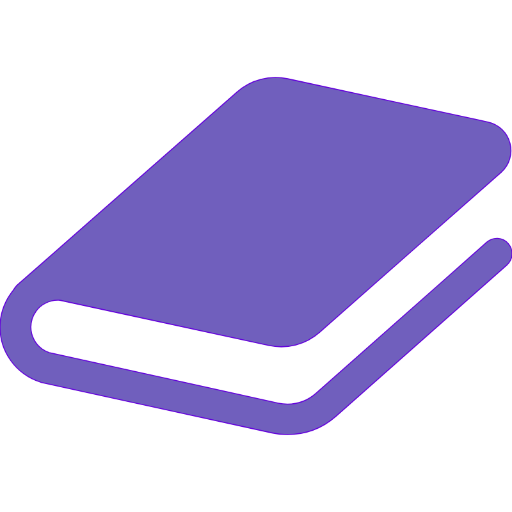
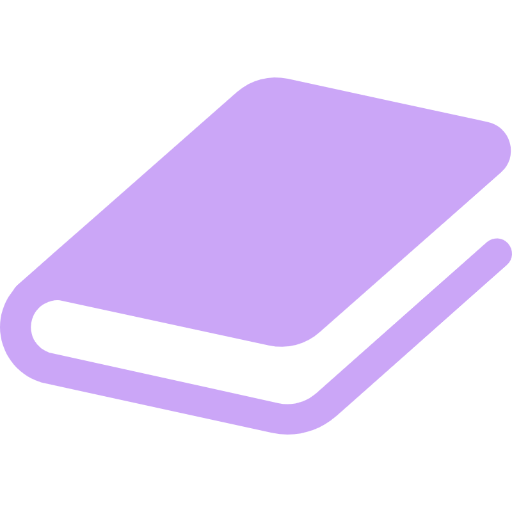
title color and web resources post modified

diff --git a/themes/customtheme/static/css/style.css b/themes/customtheme/static/css/style.css
@@ -32,7 +32,7 @@ html {
   scroll-behavior: smooth;
   scrollbar-width: auto;
   /* Can be "auto", "thin", or "none" */
-  scrollbar-color: #705FBD #282A36;
+  scrollbar-color: #cba6f7 #282A36;
   /* Thumb and track color */
 }
 
@@ -102,7 +102,7 @@ a:hover {
 
 .index-title {
   font-family: 'JetBrainsMono-Bold';
-  color: #9D65FF;
+  color: #cba6f7;
   margin-top: 1em;
 }
 

diff --git a/content/posts/web-resources.md b/content/posts/web-resources.md
@@ -36,15 +36,23 @@ title = 'Web resources'
 
 [The Modern JavaScript Tutorial](https://javascript.info/)
 
+[Full Stack open](https://fullstackopen.com/en/)
+
+[Full Stack JavaScript The Odin Project](https://www.theodinproject.com/paths/full-stack-javascript)
+
 [mdn web docs JavaScript](https://developer.mozilla.org/en-US/docs/Web/JavaScript)
 
 [JavaScript on Exercism](https://exercism.org/tracks/javascript)
+
+[node](https://nodejs.org/en)
 
 [react](https://react.dev/)
 
 [vite](https://vite.dev/)
 
 [vue](https://vuejs.org/)
+
+[nuxt](https://nuxt.com/)
 
 ### Networking
 
